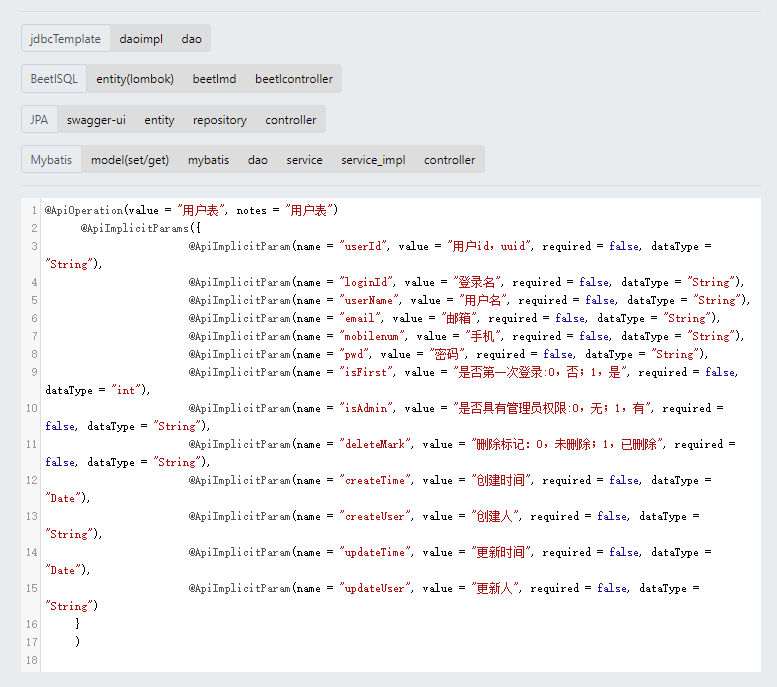
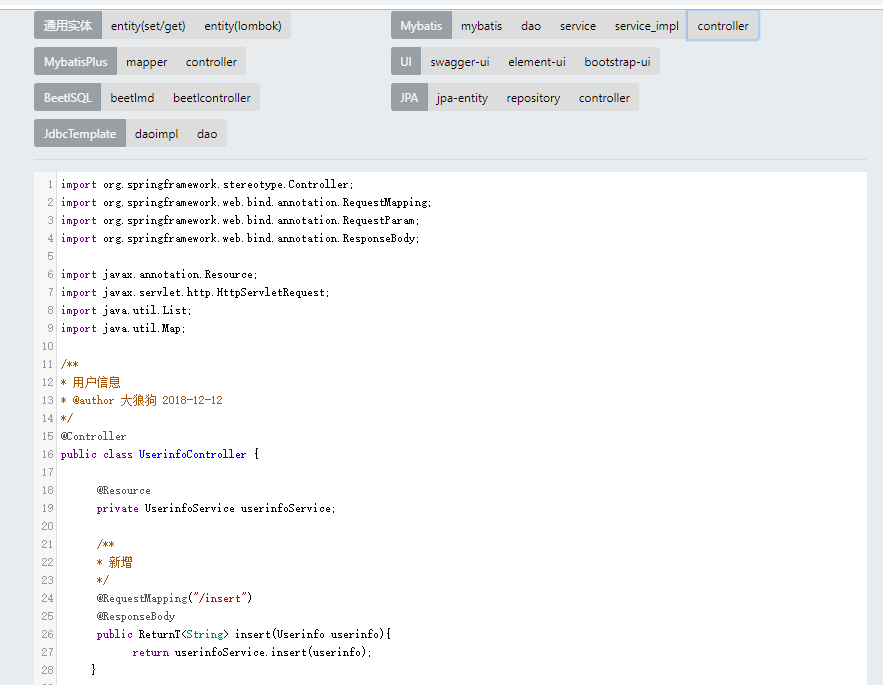
Optimization for UI of html，New MybatisPlus Mod，Fix AuthorName and PackageName issue

diff --git a/generator-web/src/main/resources/static/js/index-new.js b/generator-web/src/main/resources/static/js/index-new.js
@@ -33,12 +33,13 @@ $(function () {
     $('#btnGenCode').click(function ()  {
 
         var tableSql = ddlSqlArea.getValue();
-
         $.ajax({
             type: 'POST',
             url: base_url + "/genCode",
             data: {
-                "tableSql": tableSql
+                "tableSql": tableSql,
+                "packageName":$("#packageName").val(),
+                "authorName":$("#authorName").val()
             },
             dataType: "json",
             success: function (data) {
@@ -54,9 +55,6 @@ $(function () {
 
                         }
                     });
-                    codeData = data.data;
-                    genCodeArea.setValue(codeData.swaggerui);
-                    genCodeArea.setSize('auto', 'auto');
                 } else {
                     layer.open({
                         icon: '2',
@@ -168,6 +166,18 @@ $(function () {
     $('#element-ui').click(function ()  {
         if(!$.isEmptyObject(codeData)) {
             genCodeArea.setValue(codeData.elementui);
+            genCodeArea.setSize('auto', 'auto');
+        }
+    });
+    $('#pluscontroller').click(function ()  {
+        if(!$.isEmptyObject(codeData)) {
+            genCodeArea.setValue(codeData.pluscontroller);
+            genCodeArea.setSize('auto', 'auto');
+        }
+    });
+    $('#plusmapper').click(function ()  {
+        if(!$.isEmptyObject(codeData)) {
+            genCodeArea.setValue(codeData.plusmapper);
             genCodeArea.setSize('auto', 'auto');
         }
     });

diff --git a/generator-web/src/main/java/com/softdev/system/generator/controller/IndexController.java b/generator-web/src/main/java/com/softdev/system/generator/controller/IndexController.java
@@ -13,7 +13,6 @@ import org.springframework.stereotype.Controller;
 import org.springframework.web.bind.annotation.RequestMapping;
 import org.springframework.web.bind.annotation.ResponseBody;
 
-import javax.annotation.Resource;
 import java.io.IOException;
 import java.util.HashMap;
 import java.util.Map;
@@ -60,27 +59,32 @@ public class IndexController {
             // result
             Map<String, String> result = new HashMap<String, String>();
 
+            //UI
+            result.put("swaggerui", freemarkerTool.processString("xxl-code-generator/swagger-ui.ftl", params));
+            result.put("elementui", freemarkerTool.processString("xxl-code-generator/element-ui.ftl", params));
+            result.put("bootstrap", freemarkerTool.processString("xxl-code-generator/bootstrap.ftl", params));
+
+            //mybatis old
             result.put("controller", freemarkerTool.processString("xxl-code-generator/controller.ftl", params));
             result.put("service", freemarkerTool.processString("xxl-code-generator/service.ftl", params));
             result.put("service_impl", freemarkerTool.processString("xxl-code-generator/service_impl.ftl", params));
             result.put("dao", freemarkerTool.processString("xxl-code-generator/dao.ftl", params));
             result.put("mybatis", freemarkerTool.processString("xxl-code-generator/mybatis.ftl", params));
             result.put("model", freemarkerTool.processString("xxl-code-generator/model.ftl", params));
-
+            //jpa
             result.put("entity", freemarkerTool.processString("xxl-code-generator/entity.ftl", params));
-            result.put("swaggerui", freemarkerTool.processString("xxl-code-generator/swagger-ui.ftl", params));
             result.put("repository", freemarkerTool.processString("xxl-code-generator/repository.ftl", params));
             result.put("jpacontroller", freemarkerTool.processString("xxl-code-generator/jpacontroller.ftl", params));
-
+            //jdbc template
             result.put("jtdao", freemarkerTool.processString("xxl-code-generator/jtdao.ftl", params));
             result.put("jtdaoimpl", freemarkerTool.processString("xxl-code-generator/jtdaoimpl.ftl", params));
-
+            //beetsql
             result.put("beetlmd", freemarkerTool.processString("xxl-code-generator/beetlmd.ftl", params));
             result.put("beetlentity", freemarkerTool.processString("xxl-code-generator/beetlentity.ftl", params));
             result.put("beetlcontroller", freemarkerTool.processString("xxl-code-generator/beetlcontroller.ftl", params));
-
-            result.put("elementui", freemarkerTool.processString("xxl-code-generator/element-ui.ftl", params));
-            result.put("bootstrap", freemarkerTool.processString("xxl-code-generator/bootstrap.ftl", params));
+            //mybatis plus
+            result.put("pluscontroller", freemarkerTool.processString("xxl-code-generator/pluscontroller.ftl", params));
+            result.put("plusmapper", freemarkerTool.processString("xxl-code-generator/plusmapper.ftl", params));
 
             // 计算,生成代码行数
             int lineNum = 0;

diff --git a/README.md b/README.md
@@ -16,6 +16,7 @@ SpringBootCodeGenerator
 <tr><td>CSDN博客</td> <td>http://blog.csdn.net/moshowgame</td></tr>
 <tr><td></td> <td></td></tr>
 <tr><td>更新日期</td> <td>更新内容</td></tr>
+<tr><td>20181212<td>首页UI优化，新增MybatisPlus模块（感谢@三叔同事的建议），修复作者名和包名获取失败问题（感谢@Yanch1994的反馈）。</td></tr>
 <tr><td>20181122<td>优化正则表达式点号的处理，优化处理字段类型，对number类型增加int，long，BigDecimal的区分判断（感谢@lshz0088的指导）。</td></tr>
 <tr><td>20181108<td>修复非字段描述"KEY FK_xxxx (xxxx)"导致生成KEY字段情况（感谢@tornadoorz反馈）。</td></tr>
 <tr><td>20181018<td>支持double(x,x)的类型，以及comment里面包含一些特殊字符的处理（感谢@tanwubo的反馈）。</td></tr>
